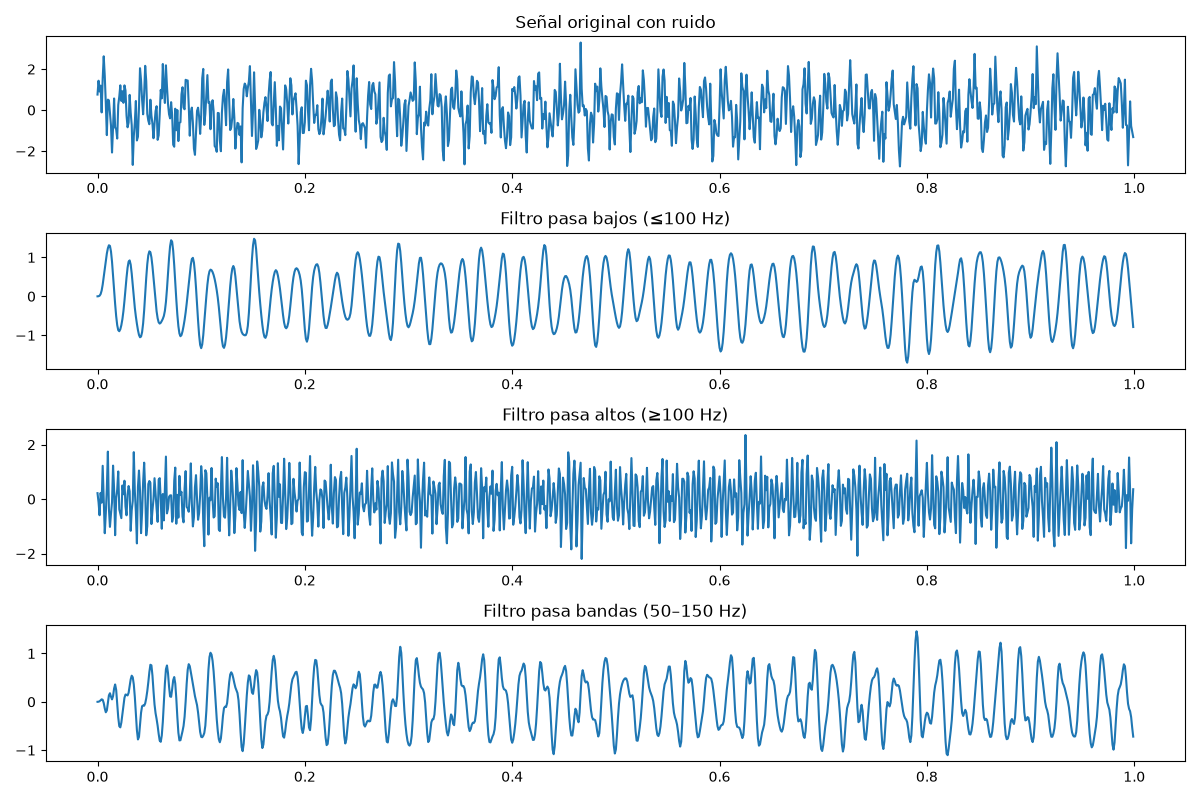
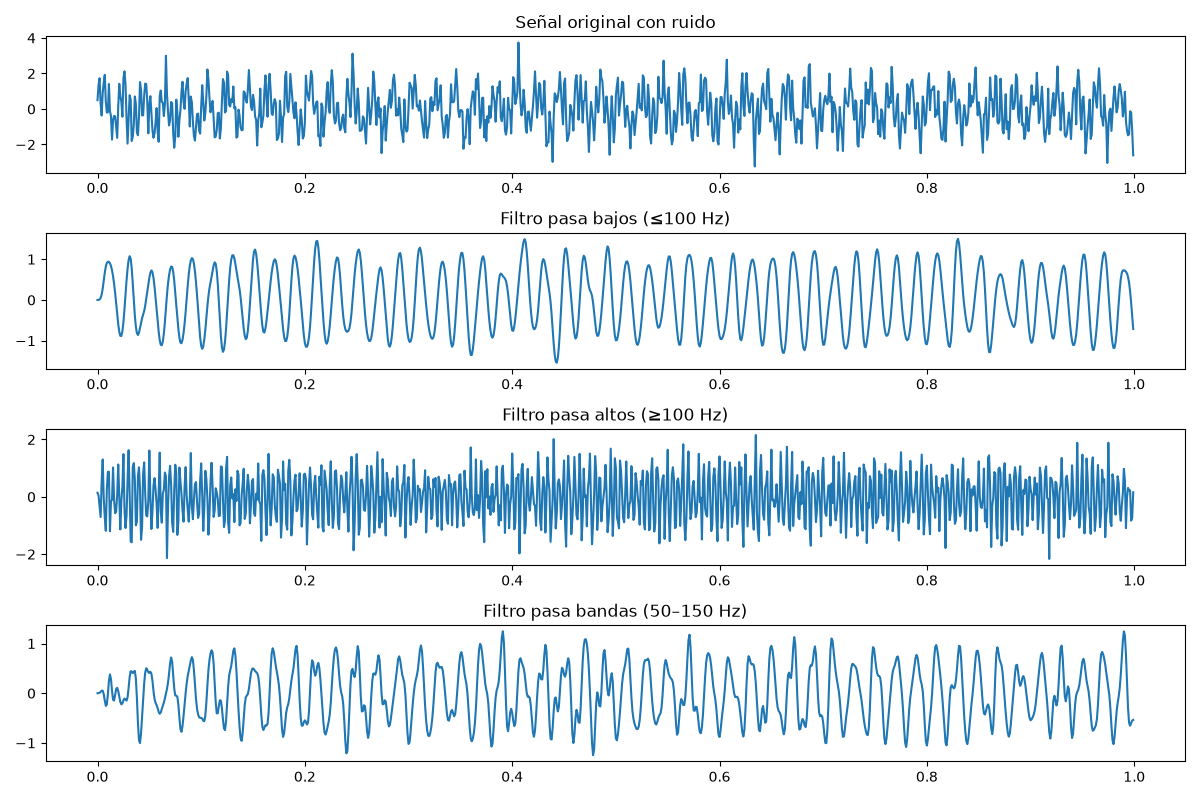
Entrega final Actividad Formativa 3 con informe y conclusiones

diff --git a/README.md b/README.md
@@ -60,20 +60,16 @@ plt.title("Señal filtrada (pasa bajos)")
 plt.show()
 ``` 
 
-📈 Informe sobre la efectividad en el dominio de la frecuencia
-Se realizó un análisis en el dominio de la frecuencia mediante la Transformada Rápida de Fourier (FFT):
+## 📈 Informe sobre la efectividad en el dominio de la frecuencia
+Se realizó un análisis en el dominio de la frecuencia mediante la **Transformada Rápida de Fourier (FFT)**.  
 
-La señal original muestra componentes en 50 Hz y 200 Hz, además de ruido distribuido.
+La señal original muestra componentes en **50 Hz** y **200 Hz**, además de ruido distribuido.  
+Tras aplicar el filtro pasa bajos, la componente de **200 Hz** y gran parte del ruido fueron atenuados.  
+El espectro confirma que el filtro conserva la frecuencia de interés (50 Hz) y elimina las no deseadas.  
 
-Tras aplicar el filtro pasa bajos, la componente de 200 Hz y gran parte del ruido fueron atenuados.
+---
 
-El espectro confirma que el filtro conserva la frecuencia de interés (50 Hz) y elimina las no deseadas.
-
-
-
-✅ Conclusiones
-Los filtros digitales son herramientas efectivas para separar componentes de frecuencia y reducir ruido.
-
-La práctica permitió observar cómo parámetros como la frecuencia de corte y el orden del filtro influyen en los resultados.
-
-El análisis en el dominio de la frecuencia confirma la efectividad del filtro en aplicaciones reales de procesamiento de señales.
+## ✅ Conclusiones
+- Los filtros digitales son herramientas efectivas para separar componentes de frecuencia y reducir ruido.  
+- La práctica permitió observar cómo parámetros como la frecuencia de corte y el orden del filtro influyen en los resultados.  
+- El análisis en el dominio de la frecuencia confirma la efectividad del filtro en aplicaciones reales de procesamiento de señales.  
